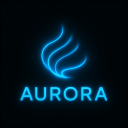
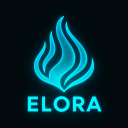
Initial commit for Elora extension

Changed region(s): [[0.125, 0.0938, 0.875, 0.9062]]

diff --git a/src/panels/webviewPanel.ts b/src/panels/webviewPanel.ts
@@ -1,29 +1,29 @@
 import * as vscode from 'vscode';
 
 export function glowPanelActivate(context: vscode.ExtensionContext) {
-  const disposable = vscode.commands.registerCommand('Aurora.showGlowPanel', () => {
+  const disposable = vscode.commands.registerCommand('Elora.showGlowPanel', () => {
     const theme = vscode.workspace.getConfiguration('workbench').get('colorTheme') as string;
 
     const themeColorMap: Record<string, string> = {
-      'Aurora Pink': '#ff69b4',
-      'Aurora Blue': '#00aaff',
-      'Aurora Green': '#00ff99',
-      'Aurora Red': '#ff4444',
-      'Euphoria Purple': '#aa00ff',
-      'Aurora Aqua': '#00ffff',
-      'Aurora Orange': '#ff8800',
-      'Aurora Yellow': '#ffff33',
-      'Aurora Lime': '#ccff00',
-      'Aurora Magenta': '#ff00ff',
-      'Aurora Cyan': '#00e5ff',
-      'Aurora Rainbow': '#ffffff'
+      'Elora Pink': '#ff69b4',
+      'Elora Blue': '#00aaff',
+      'Elora Green': '#00ff99',
+      'Elora Red': '#ff4444',
+      'Elora Purple': '#aa00ff',
+      'Elora Aqua': '#00ffff',
+      'Elora Orange': '#ff8800',
+      'Elora Yellow': '#ffff33',
+      'Elora Lime': '#ccff00',
+      'Elora Magenta': '#ff00ff',
+      'Elora Cyan': '#00e5ff',
+      'Elora Rainbow': '#ffffff'
     };
 
     const glowColor = themeColorMap[theme] || '#ffffff'; // Now glowColor is used here
 
     const panel = vscode.window.createWebviewPanel(
-      'AuroraGlow',
-      'Aurora Glow',
+      'EloraGlow',
+      'Elora Glow',
       vscode.ViewColumn.One,
       { enableScripts: true }
     );
@@ -107,7 +107,7 @@ function getWebviewContent(glowColor: string): string {
   <body>
     <div class="border-glow">
       <div class="content">
-               𝑨𝒖𝒓𝒐𝒓𝒂 <br>
+               𝑬𝒍𝒐𝒓𝒂 <br>
               𝑮𝒍𝒐𝒘𝒊𝒏𝒈 𝒘𝒊𝒕𝒉 𝒔𝒕𝒚𝒍𝒆 !<br>     
                    𝑩𝒀 - 𝑺𝒘𝒂𝒓𝒂𝒋 𝑳𝒂𝒅𝒌𝒆
       </div>
